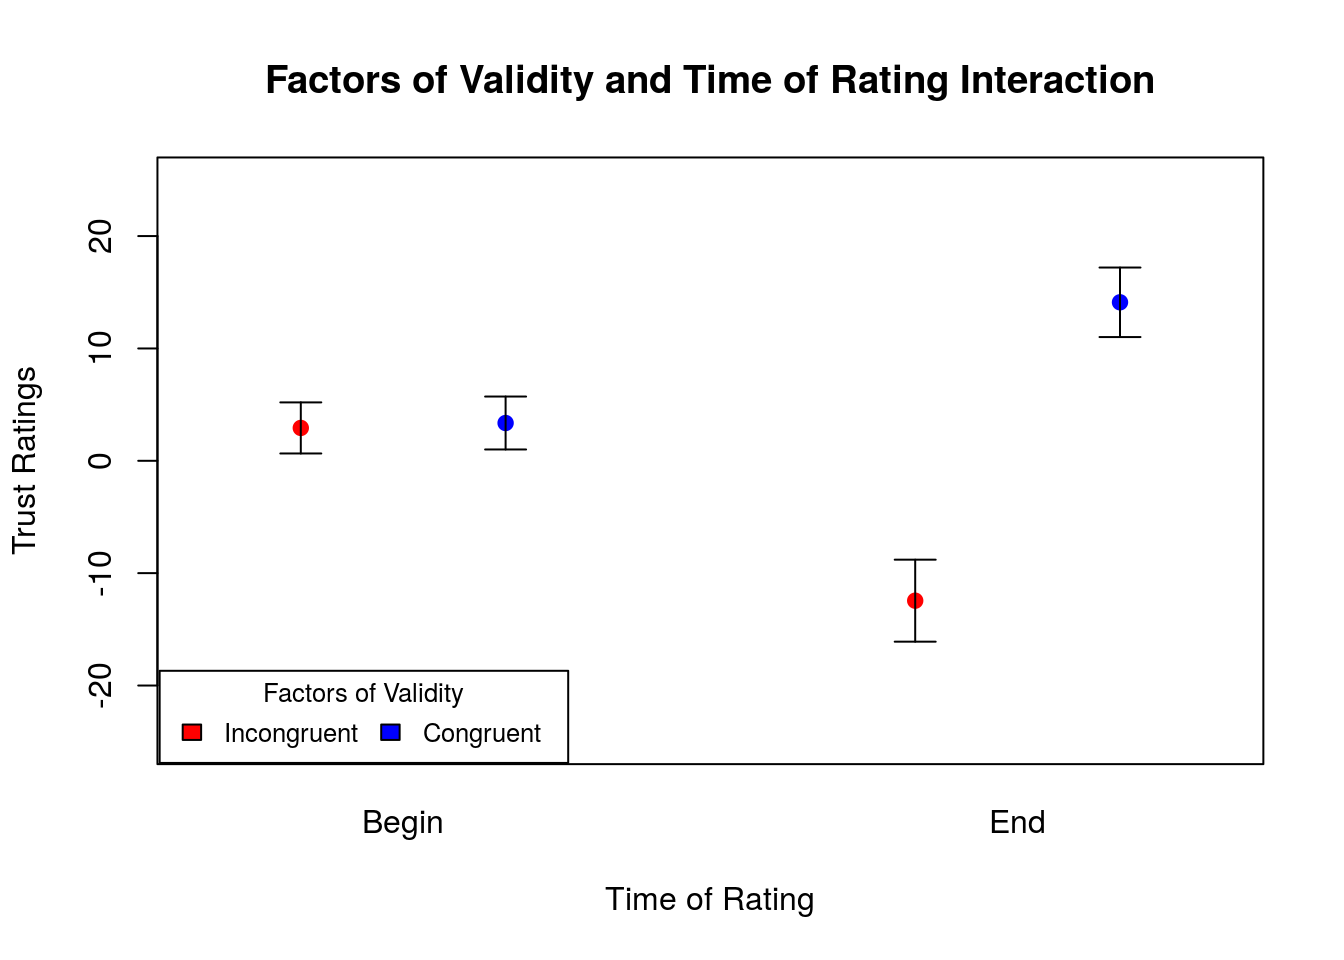
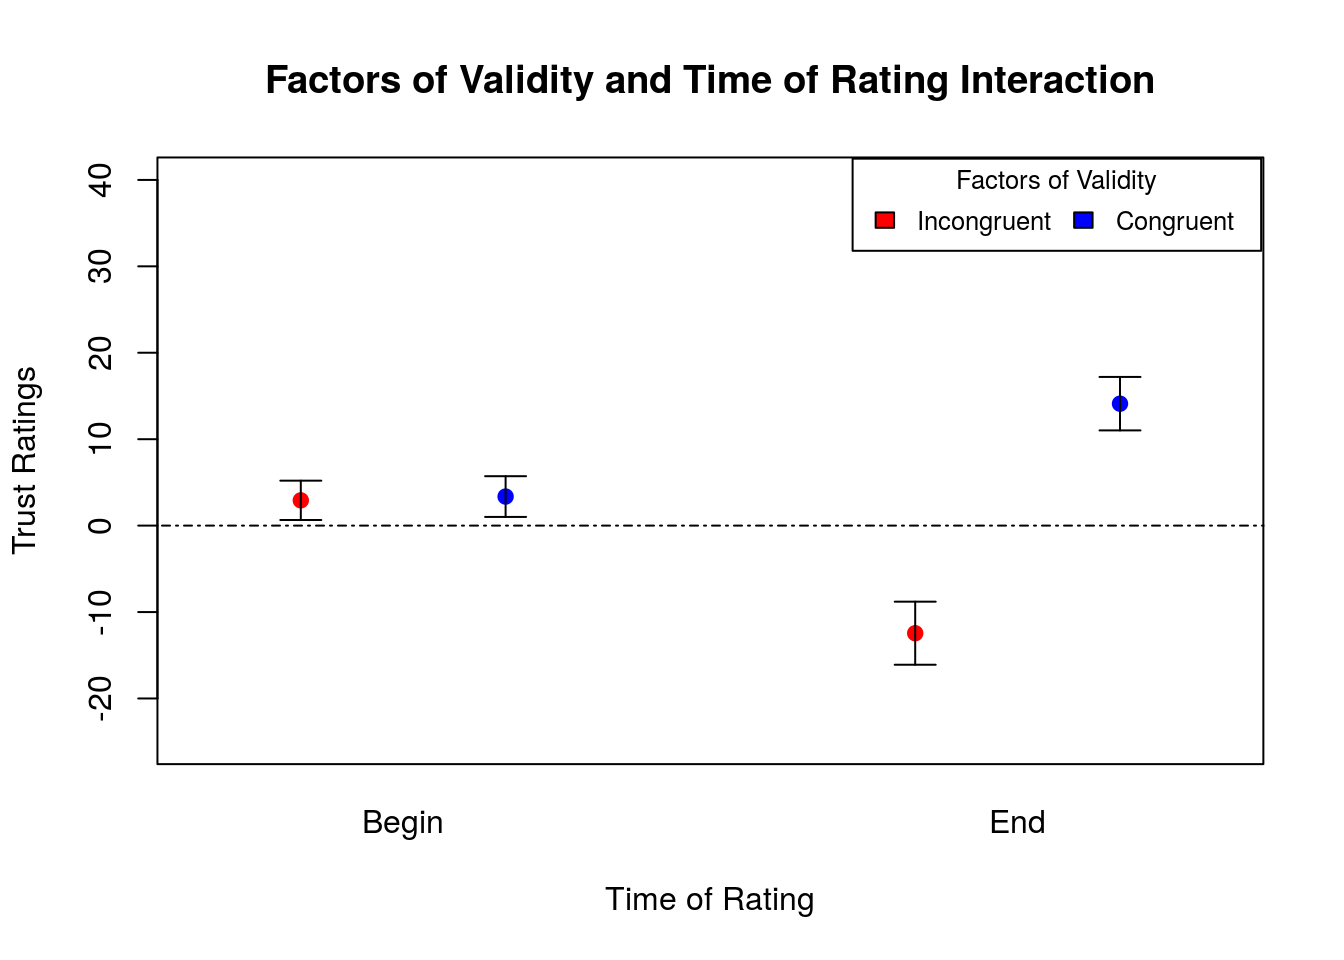
edit

diff --git a/about.html b/about.html
@@ -213,11 +213,11 @@ $(document).ready(function () {
 <li><p>A 2 X 2 X 2 (IV: factors of validity, face gender, and time of rating) within subjects ANOVA was conducted to analyze the trust ratings. The levels of the factors of validity was congruent and incongruent, referring to whether the pictured face gazed toward or away from the object respectively. The levels of the face gender of the individuals was female and male. Lastly, the levels of the time of rating are before and after the gaze-cueing phase. The R script for all ANOVA tests and t-tests are located in the “R Scripts” tab.</p>
 <p>ANOVA analysis shows that there was a significant main effect for factors of validity with F (1,49) = 11.12, MS Error = 1639, p &lt; 0.00164 for the incongruent (M = -12.45, SE = 3.65) and congruent (M = 14.11, SE = 3.09) gaze-cues at the final time of rating, suggesting that a systematic influence played a noticeable role in affecting trust ratings in congruent and incongruent conditions. In contrast, at the initial time of rating, the ratings for the incongruent and congruent gaze-cues were M = 2.93, SE = 2.27 and M = 3.36, SE = 2.35, respectively. A t-test comparison of the two levels of the factors of validity at the initial time of rating show a statistically insignificant t(198) = 0.13, p &lt; 0.894, suggesting that the incongruent and congruent faces were rated similarly at the start of the experiment. The notable change in rating at the different times is also evident in the interaction between factors of validity and time of rating with F (1,49) = 12.89, MS Error = 1323, p &lt; 0.000761, further corroborating that the trust ratings were influenced by when the test was conducted. This contrast between the statistically insignificant difference in ratings at the start of the experiment and the significant difference in ratings at the end of the rating suggests that the experimental manipulation, rather than chance, was responsible for such changes. These results are visually summarized in the graph below.</p></li>
 </ol>
-<p><img src="about_files/figure-html/unnamed-chunk-20-1.png" width="672" /></p>
+<p><img src="about_files/figure-html/unnamed-chunk-2-1.png" width="672" /></p>
 <ol start="2" style="list-style-type: decimal">
-<li>There was a significant interaction between face gender and time of rating with F (1,49) = 7.35, MS Error = 291.6, p &lt; 0.00921, suggesting that the trust ratings of both genders were changed asymmetrically following the gaze-cueing phase. Although females were initially perceived as more trustworthy than males, the trustworthiness of females and males were similar at the final time of rating. A paired sample t-test was conducted between the female (M = 7.59, SEM = 2.22) and male group (M = -1.30, SEM = 2.32) in the initial time of rating with t (198) = 2.76, p &lt; 0.006231, suggesting an initial significant difference in trust ratings between the two groups. By contrast, another paired sample t-test was conducted between the female (M = 0.64, SEM = 3.35) and male (M = 1.02, SEM = 3.90) group in the final time of rating with t (198) = -0.073, p &lt; 0.9416, suggesting a final similarity in the trust rating between female and male ratings. According to these results, females that convey an incongruent gaze-cue lost more trust rating points than their male counterparts. Additionally, females that convey a congruent gaze-cue gained fewer trust rating points than their male counterparts. These implications are particularly notable considering the fact that females were perceived to be more trustworthy that males at initial time of rating.</li>
+<li>There was a significant interaction between face gender and time of rating with F (1,49) = 7.35, MS Error = 291.6, p &lt; 0.00921, suggesting that the trust ratings of both genders were changed asymmetrically following the gaze-cueing phase. Although females were initially perceived as more trustworthy than males, the trustworthiness of females and males were similar at the final time of rating. A paired sample t-test was conducted between the female (M = 7.59, SEM = 2.22) and male group (M = -1.30, SEM = 2.32) in the initial time of rating with t (198) = 2.76, p &lt; 0.006231, suggesting an initial significant difference in trust ratings between the two groups. By contrast, another paired sample t-test was conducted between the female (M = 0.64, SEM = 3.35) and male (M = 1.02, SEM = 3.90) group in the final time of rating with t (198) = -0.073, p &lt; 0.9416, suggesting a final similarity in the trust rating between female and male ratings. According to these results, females that convey an incongruent gaze-cue lost more trust rating points than their male counterparts. Additionally, females that convey a congruent gaze-cue gained fewer trust rating points than their male counterparts. These implications are particularly notable considering the fact that females were perceived to be more trustworthy that males at initial time of rating. The results are visually summarized in the graph below.</li>
 </ol>
-<p><img src="about_files/figure-html/unnamed-chunk-21-1.png" width="672" /></p>
+<p><img src="about_files/figure-html/unnamed-chunk-3-1.png" width="672" /></p>
 <ol start="3" style="list-style-type: decimal">
 <li><p>To further determine the role of the timing of rating on the main effects and interactions, two separate 2 X 2 (IV: factors of validity and face gender) within-subjects ANOVAs were conducted with the first ANOVA and second ANOVA corresponding to the initial and final time of rating, respectively. At the initial time of rating, there was an insignificant main effect of factors of validity with F (1,49) = 0.029, MS Error = 329.5, p &lt; 0.865 but a significant main effect of face gender F (1,49) = 8.46, MS Error = 466, p &lt; 0.00545. There was no interaction between factors of validity and face gender at the initial time of rating with F (1,49) = 0.493, MS Error = 216.9, p &lt; 0.486. These results suggest that the participants based trust ratings on the gender of the face with females (M = 7.59, SEM = 2.22) rated as more trustworthy than males (M = -1.30, SEM = 2.32). An insignificant main effect for the factors of validity for incongruent (M = 2.93, SE = 2.27) and congruent (M = 3.36, SE = 2.35) gaze-cues serves to legitimize the experimental method since the participants were unaware of the congruent and incongruent faces before the start of the experiment. At the final time of rating, there was a significant main effect of factors of validity with F (1,49) = 13.4, MS Error = 2632, p &lt; 0.000616 but an insignificant main effect of gender with F (1,49) = 0.012, MS Error = 598.9, p &lt; 0.914. There was no interaction between factors of validity and face gender at the final time of rating with F (1,49) = 0.071, MS Error = 466.3, p &lt; 0.791. These results suggest that participants based trust ratings on factors of validity rather than face gender at the end of the experiment. In short, the experiment and subsequent statistical analysis contrasted the baseline measurement, in which trust rating was initially based on face gender, with the experimental measurement, in which trust rating was finally based on factors of validity, in order to determine the change that occurred as a result of the experimental manipulation.</p>
 <p>Luis et al. published the raw data tables to the open science framework where it was accessed for statistical analysis. Although most of the numbers reported in the paper accord with the numbers presented above, there is one minor discrepancy in the standard error of the mean calculations. In the above analysis, the calculation of the standard error of the mean was calculated by taking the ratio of the sample standard deviation and the square root of the sample size. It is possible that Luis et al. used a different method to obtain the reported standard error of the mean. Nevertheless, the reported numbers are not too different from those presented in the paper. All the remaining numbers accord with those presented in the paper.</p></li>

diff --git a/ANOVA_R_Scripts.html b/ANOVA_R_Scripts.html
@@ -374,6 +374,40 @@ summary(aov.bww)</code></pre>
 ## initialFactorsOfValidity:initialFaceGender  0.486
 ## Residuals</code></pre>
 </div>
+<div id="factors-of-validity-x-2-face-gender-anova-at-the-final-time-of-rating" class="section level1">
+<h1>2 (Factors of Validity) X 2 (Face Gender) ANOVA at the Final Time of Rating</h1>
+<pre class="r"><code>finalRatings = mydata_revised$ratings[which(mydata_revised$time_of_rating == &quot;E&quot;)]
+finalFactorsOfValidity = mydata_revised$factors_of_validity[which(mydata_revised$time_of_rating == &quot;E&quot;)]
+
+finalFaceGender = mydata_revised$face_gender[which(mydata_revised$time_of_rating == &quot;E&quot;)]
+finalSubject = mydata_revised$subject[which(mydata_revised$time_of_rating == &quot;E&quot;)]
+
+
+aov.bww = aov(finalRatings ~ finalFactorsOfValidity*finalFaceGender + Error(finalSubject/(finalFactorsOfValidity*finalFaceGender)))
+
+summary(aov.bww)</code></pre>
+<pre><code>## 
+## Error: finalSubject
+##           Df Sum Sq Mean Sq F value Pr(&gt;F)
+## Residuals 49  45286   924.2               
+## 
+## Error: finalSubject:finalFactorsOfValidity
+##                        Df Sum Sq Mean Sq F value   Pr(&gt;F)    
+## finalFactorsOfValidity  1  35265   35265    13.4 0.000616 ***
+## Residuals              49 128981    2632                     
+## ---
+## Signif. codes:  0 &#39;***&#39; 0.001 &#39;**&#39; 0.01 &#39;*&#39; 0.05 &#39;.&#39; 0.1 &#39; &#39; 1
+## 
+## Error: finalSubject:finalFaceGender
+##                 Df Sum Sq Mean Sq F value Pr(&gt;F)
+## finalFaceGender  1      7     7.1   0.012  0.914
+## Residuals       49  29348   598.9               
+## 
+## Error: finalSubject:finalFactorsOfValidity:finalFaceGender
+##                                        Df Sum Sq Mean Sq F value Pr(&gt;F)
+## finalFactorsOfValidity:finalFaceGender  1     33    33.0   0.071  0.791
+## Residuals                              49  22849   466.3</code></pre>
+</div>
 
 
 
